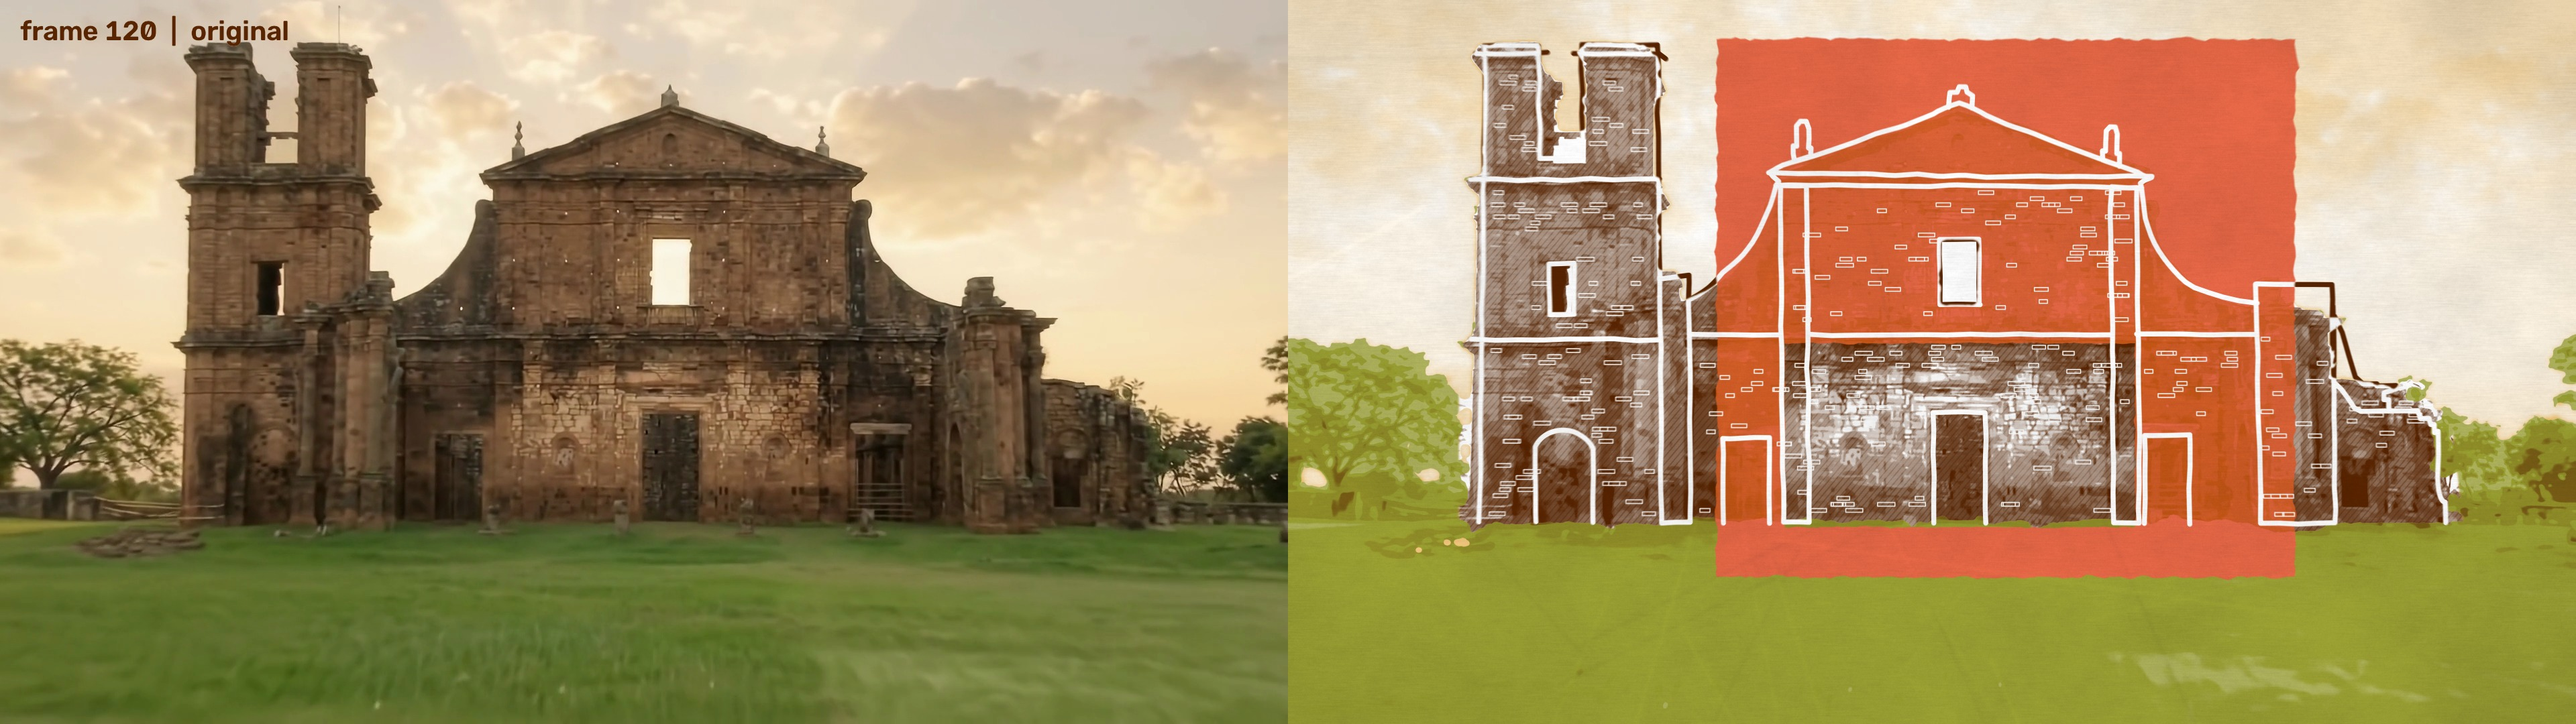
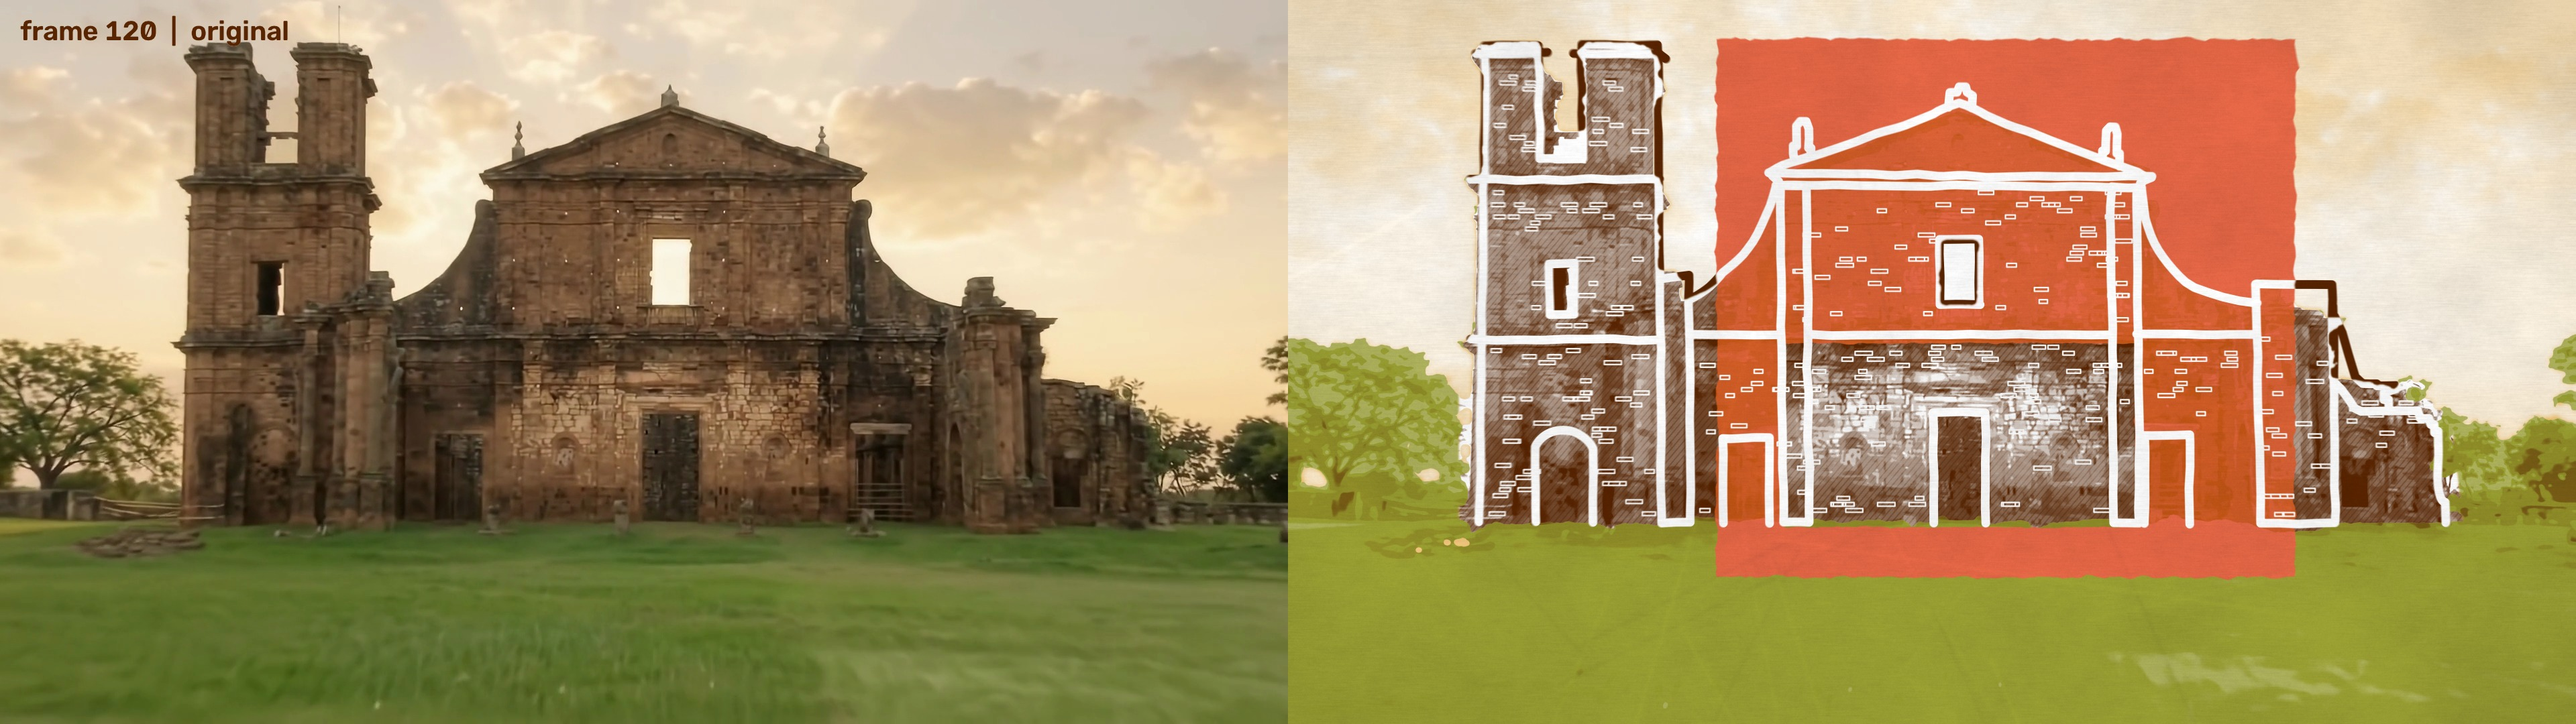
Missões: cruz a prumo e traço mais grosso
Claude-Session: https://claude.ai/code/session_01FGNSTSmGAyufsfEL5TUkZU

Changed region(s): [[0.5625, 0.1222, 0.9688, 0.7333], [0.5625, 0.0611, 0.6562, 0.3056], [0.75, 0.55, 0.7812, 0.5806]]

diff --git a/missoes-reestilizacao/scripts/a4_fit_cruz.py b/missoes-reestilizacao/scripts/a4_fit_cruz.py
@@ -15,11 +15,12 @@ def T(P,q):
     return np.stack([X,Y],1)
 if __name__=='__main__':
     def rast(q):
+        q=q.copy(); q[5]=q[6]=0      # cruz sempre a prumo: sem inclinacao de bracos, haste ou base
         m=np.zeros((1080//D,1920//D),np.uint8); cv2.fillPoly(m,[np.round(T(SIL,q)/D*16).astype(np.int32)],255,cv2.LINE_AA,4); return m.astype(np.float32)/255
     def cost(q,tg,q0):
         m=rast(q); i=(m*tg).sum(); u=m.sum()+tg.sum()-i
         return 1-i/max(u,1)+0.02*np.sum(((q-q0)/np.array([200,200,2,2,1.0,.3,.3]))**2)
-    qi=np.array([468,399,2.29,1.93,1.45,-0.03,-0.08]); q=qi.copy(); F=np.full((240,7),np.nan); last=0
+    qi=np.array([468,399,2.29,1.93,1.45,0,0]); q=qi.copy(); F=np.full((240,7),np.nan); last=0
     for i in list(range(72,-1,-1))+list(range(73,96)):
         if i==73: q=F[72].copy()
         mk=cv2.imread(f'{B}/mattes/cruz/m_{i:04d}.png',0)
@@ -32,7 +33,7 @@ if __name__=='__main__':
         for st in ([40,40,.4,.3,.3,.06,.06],[15,15,.12,.1,.1,.03,.03]):
             r=minimize(cost,q,args=(tg,q),method='Nelder-Mead',options=dict(initial_simplex=np.vstack([q]+[q+np.eye(7)[j]*st[j] for j in range(7)]),maxiter=500,xatol=.02,fatol=1e-5))
             q=r.x
-        F[i]=q
+        q[5]=q[6]=0; F[i]=q
         if i%8==0: print(i,q.round(2),'IoU',round(1-cost(q,tg,q),3),flush=True)
     for c in range(7): F[:last+1,c]=gaussian_filter1d(F[:last+1,c],1.2,mode='nearest')
     np.save(f'{B}/fit_cruz.npy',F); print('cruz encaixada de 0 a',last)

diff --git a/missoes-reestilizacao/scripts/render.py b/missoes-reestilizacao/scripts/render.py
@@ -301,7 +301,7 @@ def render(i, layers=False):
 
     # ---------- 04 linhas vetoriais (cruz por contorno do matte; fachada por geometria + tracking)
     lin = np.zeros((Hh, W), np.float32); lin_jan = np.zeros((Hh, W), np.float32)
-    wm = 15.0 * CTRL['espessura']; ws_ = 7.0 * CTRL['espessura']; amp = 1.6 * CTRL['boil']
+    wm = 26.0 * CTRL['espessura']; ws_ = 7.0 * CTRL['espessura']; amp = 1.6 * CTRL['boil']
     f_cruz = expo_out(i / 16.)
     for sidx in range(NB_MB):
         t = 0.5 * sidx / NB_MB
@@ -326,7 +326,7 @@ def render(i, layers=False):
                 st, du = TIMING[g]; f = expo_out((i - st - 0.6 * du - (1 - (by - YT) / (YB - YT)) * 14 - (k % 7)) / 8.)
                 if f <= 0: continue
                 Q = proj([(bx, by), (bx + bw, by), (bx + bw, by + bh), (bx, by + bh), (bx, by)], h3)
-                stroke(c, trim(Q, f), 3.0 * CTRL['espessura'])
+                stroke(c, trim(Q, f), 4.5 * CTRL['espessura'])
             # 6-9 s: linhas de construcao convergem para a janela
             if 144 <= i <= 212:
                 e = ease_io((i - 144) / 18.) * (1 - ease_io((i - 176) / 30.))
